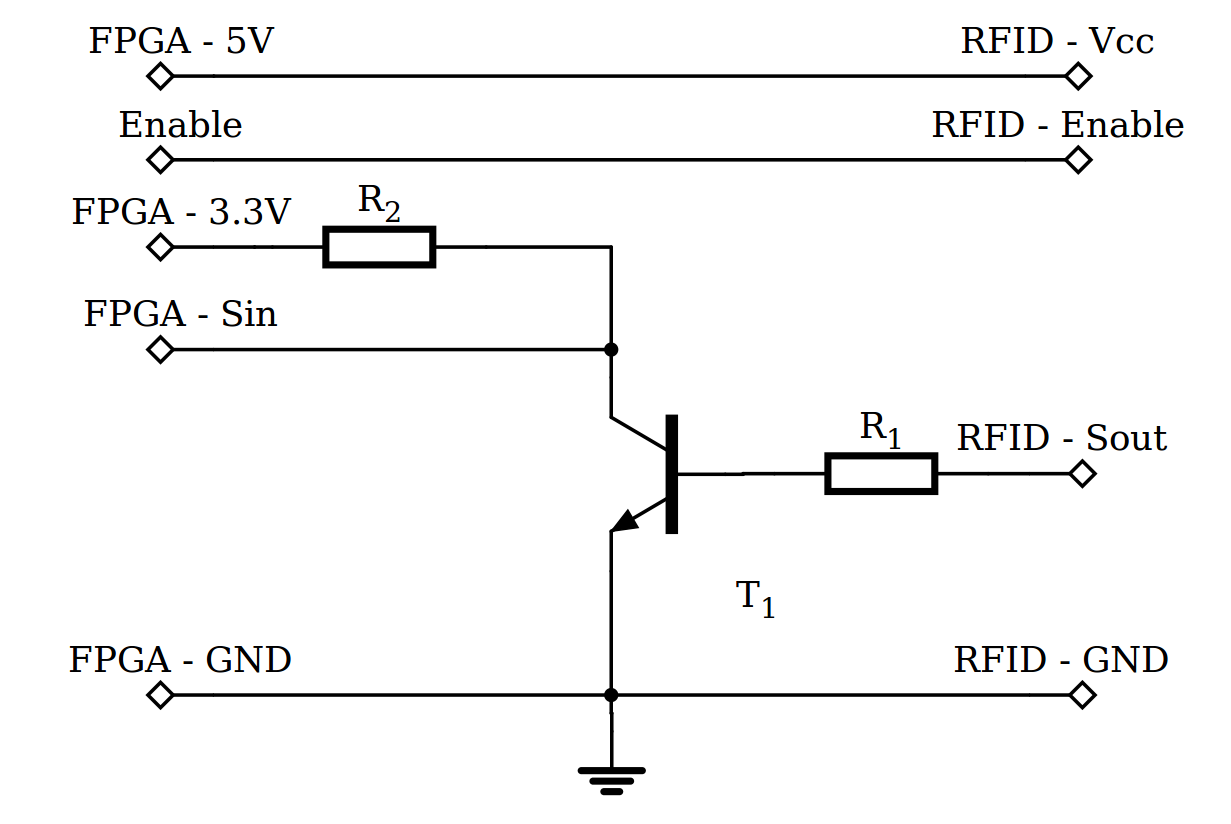
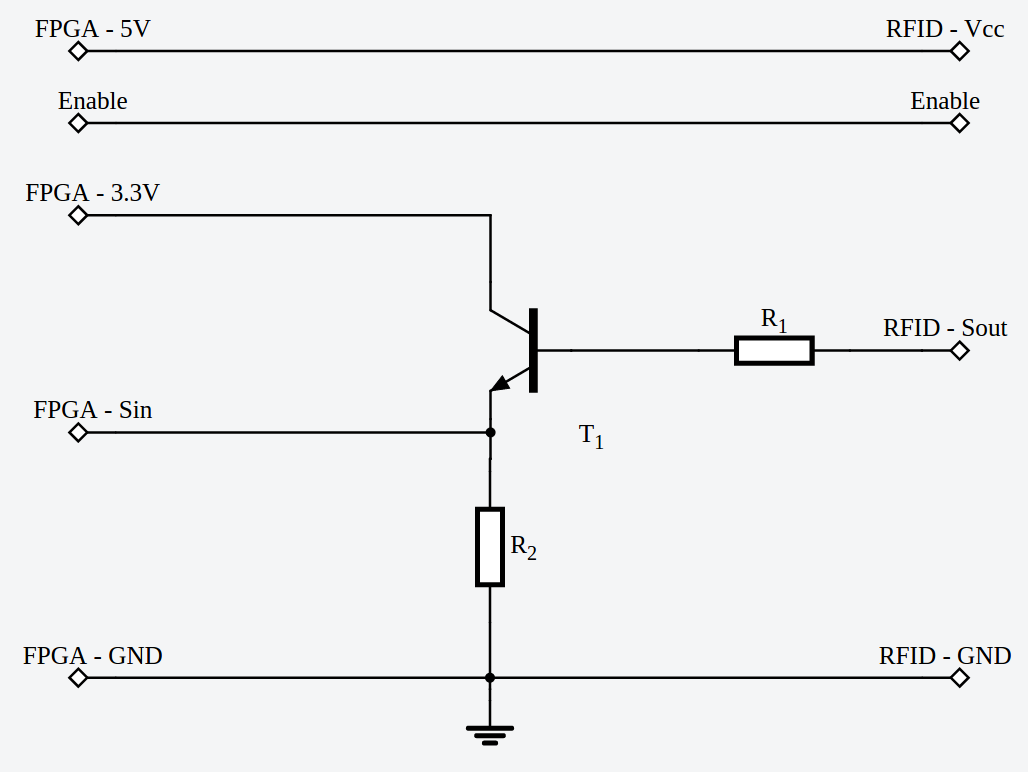
Change the shift-level circuit.
update README.me to use the new circuit
update PLL.vhd to output 2.4khz
update PLL in reader.vhd
remove data-buffer.TB.vhd

Changed region(s): [[0.0, 0.0, 0.9961, 0.9637], [0.0311, 0.4974, 0.1556, 0.5907], [0.5914, 0.6839, 0.6226, 0.7461]]

diff --git a/README.md b/README.md
@@ -1,3 +1,4 @@
+<!--Ment for Github - No mathjax-->
 #**Driver for RFID-reader by Parallax**
 
 ####Ment for [RFID-reader by Parallax - Product#28140][1] written in VHDL for Altera FPGA devices.
@@ -19,20 +20,19 @@ GND pins
 
 The GPIO I/O pins can't recieve higher voltage than 3.3[V], therefor **you must convert S<sub>out</sub>'s voltage range from 5[V] - 0[V] to 3.3[V] - 0[V]** with an external electrical circuit.
 Quote from the manual for `DE2-115`:
-> The voltage level of the I/O pins on the expansion headers can be adjusted to 3.3V, 2.5V, 1.8V, or
-1.5V using JP6 (The default value is 3.3V[..])
+> The voltage level of the I/O pins on the expansion headers can be adjusted to 3.3V, 2.5V, 1.8V, or 1.5V using JP6 (The default value is 3.3V[..])
 
 I designed and implemented the following design:<sup>1</sup>
 ![circuit](https://raw.githubusercontent.com/Doron-Behar/parallax-28140-RFID-reader/master/images/circuit.png)
 ####This is how the circuit work for every state of S <sub>out</sub>:
-|S<sub>out</sub> = 5[V]             |S<sub>out</sub> = 0[V]
-|-----------------------------------|------------------
-|V<sub>BB</sub> > V<sub>CC<sub>     |V<sub>BB</sub> = 0[V] = I<sub></sub>B * R<sub>1</sub> + V<sub>BE</sub> + 0
-|Transistor is on it's sub-threshold|I<sub>BB</sub> ≈ 0[V]
-|V<sub>R2</sub> = 3.3[V]            |Transistor is saturated
-|S<sub>in</sub> = 0[V]              |I<sub>C</sub> ≥ β * I<sub>B</sub>
-|                                   |I<sub>C</sub> = (3.3[v] - S<sub>in</sub>) / R<sub>2</sub>
-|                                   |S<sub>in</sub> = 3.3[V]
+|S<sub>out</sub> = 5[V]                                                                      |S<sub>out</sub> = 0[V]
+|--------------------------------------------------------------------------------------------|------------------
+|V<sub>BE</sub> = 0.7[V]                                                                     |V<sub>BB</sub> = 0[V] = I<sub>B</sub>R<sub>1</sub> + V<sub>BE</sub>
+|V<sub>R1</sub> = S<sub>out</sub> = 5[V] = I<sub>B</sub>R<sub>1</sub>                        |I<sub>B</sub> ≈ 0 [V]
+|3.3 [V] = I<sub>C</sub>R<sub>2</sub> + V<sub>CE</sub>                                       |Transistor is on it's sub-threshold
+|Because both resistors are equal => I<sub>C</sub> ≥ βI<sub>B</sub>                          |I<sub>R2</sub> = 0
+|Transistor is satuarated                                                                    |S<sub>in</sub> = V<sub>BB</sub> = 3.3[V]
+|S<sub>IN</sub> = V<sub>B</sub> = 3.3 [V]                                                    |
 
 As you can see, there is an invertion for the signal coming out of the reader. Therefor there is a not statement in the design As well as in the pin-assignments.
 ###Communication Protocol
